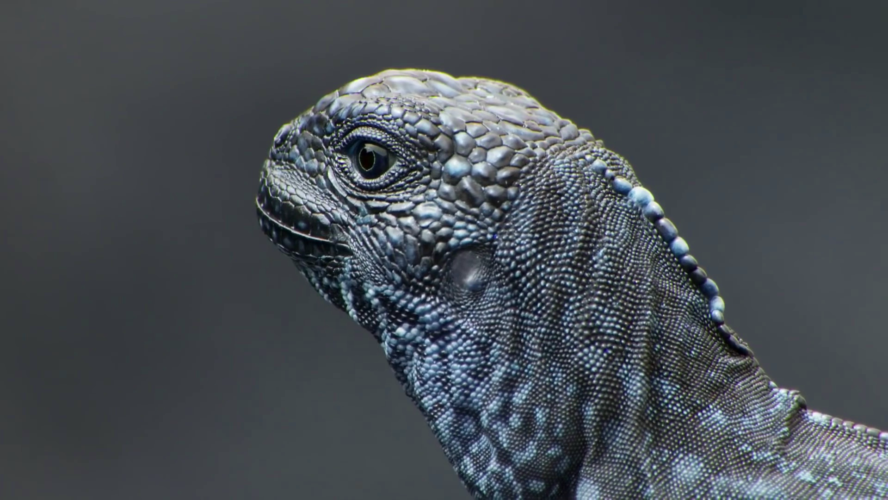
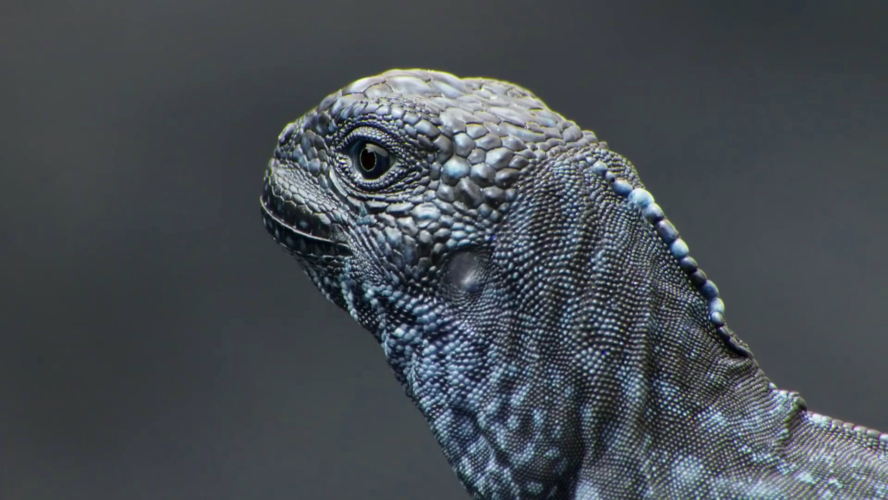
.

Changed region(s): [[0.2736, 0.12, 1.0, 1.0]]

diff --git a/infer.py b/infer.py
@@ -62,7 +62,7 @@ def weights_init(m):
     netG = nn.DataParallel(netG, list(range(ngpu)))"""
 
 #netG.apply(weights_init)
-netG = torch.load("nice/generator5.bin")
+netG = torch.load("nice/generator6.bin")
 netG.eval()
 
 print("running model")
